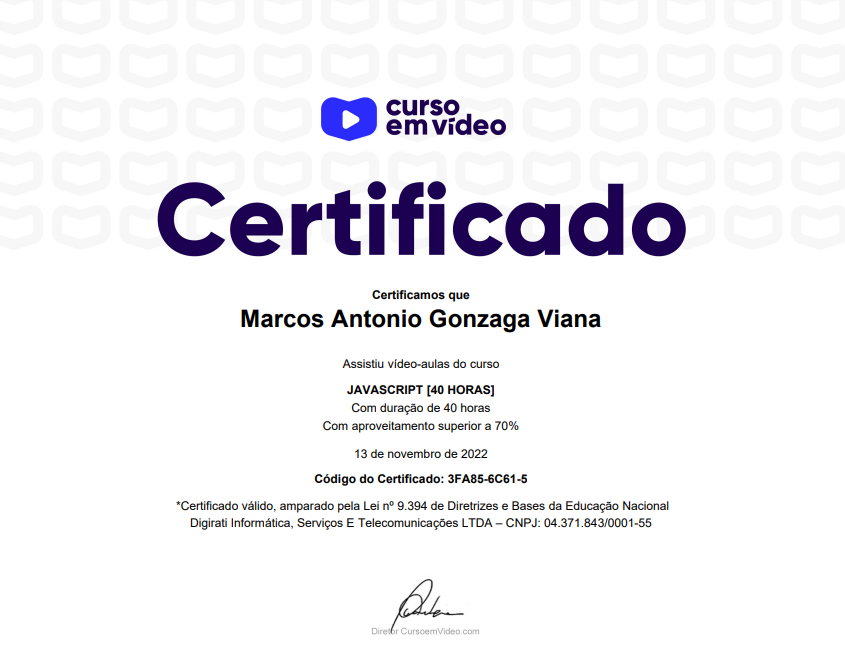
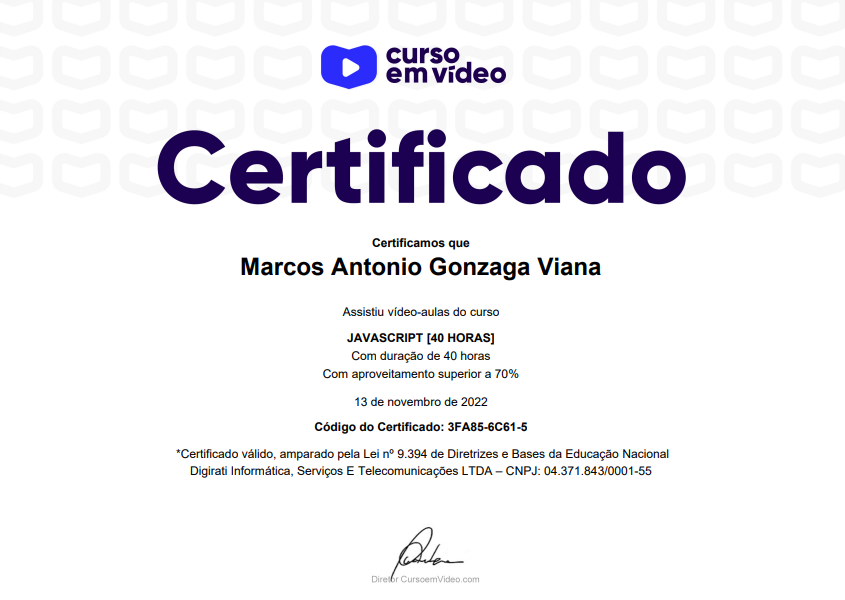
exibir certificados
+adicionado os demais certificados do curso em vídeo
+criado o evento onclick para os certificados serem exibidos em tela cheia
+criado evento onclick para fechar os certificados
~reduzido o tamanho das imagens do certificado CEV (crop)

Changed region(s): [[0.1846, 0.06, 0.8308, 0.81], [0.4308, 0.87, 0.5538, 0.99]]

diff --git a/index.html b/index.html
@@ -11,12 +11,18 @@
 </head>
 
 <body>
+  <div id="ctn_certif_grande" onclick="hide_cert()">
+    <div id="btn_cert_close">
+      <!-- <button onclick="hide_cert()">X</button> -->
+    </div>
+    <img id="img_certif_grande" src="">
+  </div>
   <header>
     <h1>Marcos Viana</h1>
     <p> Entusiasta apaixonado por tecnologia, estudando programação. </p>
   </header>
   <nav>
-    <a href="#certificados">Certificacões</a>
+    <a href="#certificados">Certificados</a>
     <a href="#portifolio">Portifólio</a>
     <a href="#">Redes Sociais</a>
     <a href="#">Contato</a>
@@ -28,13 +34,13 @@
         Implementar
       </p>
       <h2> Atualmente </h2>
-      <p> Estudando JavaScript e NodeJS na RocketSeat, trilha especializar. </p>
+      <p> Estudando JavaScript, NodeJS e React na RocketSeat, trilha especializar. </p>
       <picture>
         <source srcset="imagens/dan-droids-x450.png" media="(max-width: 400px)" />
         <img src="imagens/dan-droids-x800.png" alt="Progresso Curso em Vídeos" />
       </picture>
       <p>implementar</p>
-      <h2 id="certificados"> Certificacões </h2>
+      <h2 id="certificados"> Certificados </h2>
       <h3>Curso em Vídeo</h3>
       <div class="certificados">
         <div class="certificado">
@@ -49,11 +55,22 @@
           <img src="./imagens/certficados/HTML_CSS_03.png" alt="Certificado 03 de HTML5 e CSS3 - Curso em Vídeo">
           <div class="descricao">Certificado 03 de HTML5 e CSS3 - Curso em Vídeo</div>
         </div>
-        <!-- 
-            <img src="./imagens/certficados/JS.png" alt="Certificado de JavaScript - Curso em Vídeo">
-            <img src="./imagens/certficados/Python_01.png" alt="Certificado 01 de Python 3 - Curso em Vídeo">
-            <img src="./imagens/certficados/Python_02.png" alt="Certificado 02 de Python 3 - Curso em Vídeo">
-            <img src="./imagens/certficados/Python_03.png" alt="Certificado 03 de Python 3 - Curso em Vídeo"> -->
+        <div class="certificado">
+          <img src="./imagens/certficados/Python_01.png" alt="Certificado 01 de Python 3 - Curso em Vídeo">
+          <div class="descricao">Certificado 01 de Python 3 - Curso em Vídeo</div>
+        </div>
+        <div class="certificado">
+          <img src="./imagens/certficados/Python_02.png" alt="Certificado 02 de Python 3 - Curso em Vídeo">
+          <div class="descricao">Certificado 02 de Python 3 - Curso em Vídeo</div>
+        </div>
+        <div class="certificado">
+          <img src="./imagens/certficados/Python_03.png" alt="Certificado 03 de Python 3 - Curso em Vídeo">
+          <div class="descricao">Certificado 03 de Python 3 - Curso em Vídeo</div>
+        </div>
+        <div class="certificado">
+          <img src="./imagens/certficados/JS.png" alt="Certificado de JavaScript - Curso em Vídeo">
+          <div class="descricao">Certificado de JavaScript - Curso em Vídeo</div>
+        </div>
       </div>
       <p>Valide os certificados <a href="https://www.cursoemvideo.com/validacao-de-certificado/"
           target="_blank">aqui</a></p>
@@ -92,6 +109,7 @@
       Site criado por <strong>Marcos Viana</strong>.
     </p>
   </footer>
+  <script src="./script.js"></script>
 </body>
 
 </html>

diff --git a/estilo/style.css b/estilo/style.css
@@ -25,12 +25,44 @@
   padding: 0px;
   box-sizing: border-box;
 }
-a.externo::after {
-  content: '\00a0\1F517';
-}
+
 body {
   background-color: var(--cor0);
   font-family: var(--fonte-padrao);
+}
+
+#ctn_certif_grande{
+  width: 100%;
+  height: 100vh;
+  background-color: rgba(0, 0, 0, 0.294);
+  display: none;
+  flex-direction: column;
+  align-items: center;
+  justify-content: center;
+
+  position: fixed;
+  top: 0;
+  left: 0;
+  z-index: 11;
+}
+
+#btn_cert_close{
+  width: 100%;
+  display: flex;
+  justify-content: end;
+  padding:10px 10px 0 0;
+}
+#btn_cert_close button {
+  color: red;
+  width: 20px;
+  height: 20px;
+}
+
+#img_certif_grande {
+  width: 80vw;
+}
+a.externo::after {
+  content: '\00a0\1F517';
 }
 header {
   /*background-color: var(--cor4);*/
@@ -118,6 +150,9 @@ main img.pequena {
 
 main h3 {
   margin: 15px 0;
+  padding-left: 5px;
+  background-image: linear-gradient(90deg, var(--cor2), transparent 30%);
+  border-radius: 5px 0 0 0;
 }
 .certificados{
   display: flex;
@@ -153,6 +188,7 @@ main h3 {
   
   display: flex;
   align-items: center;
+  justify-content: center;
   
   transition: 100ms;
 }

diff --git a/script.js b/script.js
@@ -1,0 +1,14 @@
+const certificado = document.querySelectorAll('.certificado')
+const ctn_certif_grande = document.getElementById("ctn_certif_grande")
+
+certificado.forEach((div)=>{
+    div.children[1].addEventListener("click", ()=>{
+        div.firstElementChild.attributes.src.value
+        ctn_certif_grande.firstElementChild.nextElementSibling.setAttribute('src', div.firstElementChild.attributes.src.value)
+        ctn_certif_grande.style.display = "flex";
+    })
+})
+
+function hide_cert(){
+    ctn_certif_grande.style.display = "none";
+}
